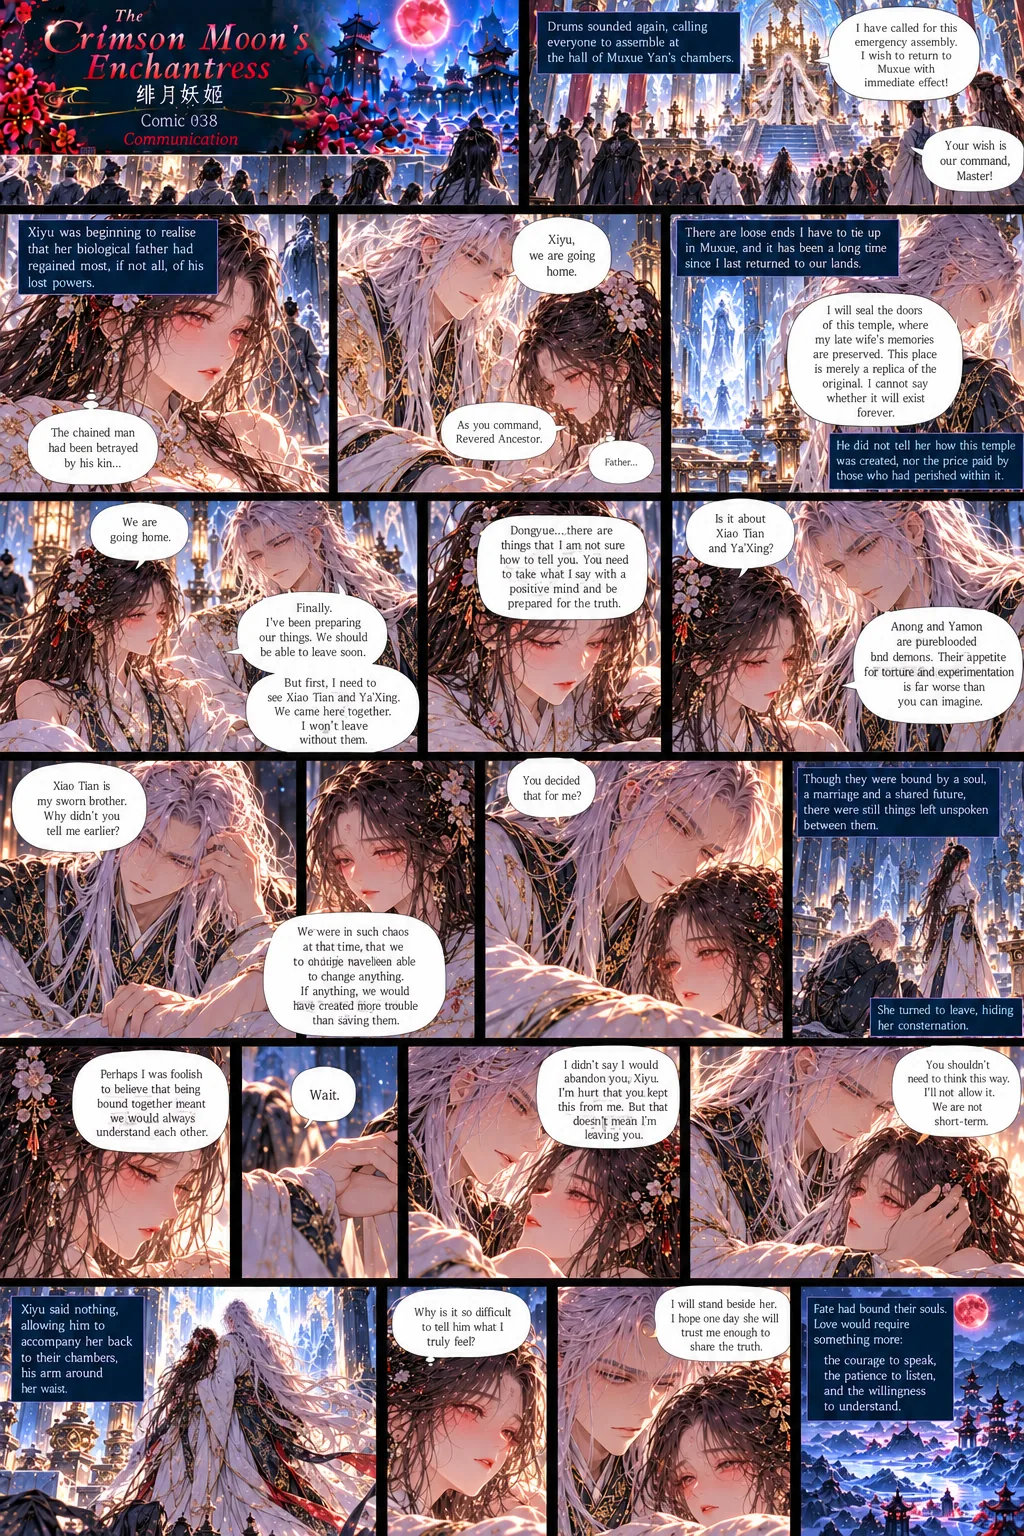
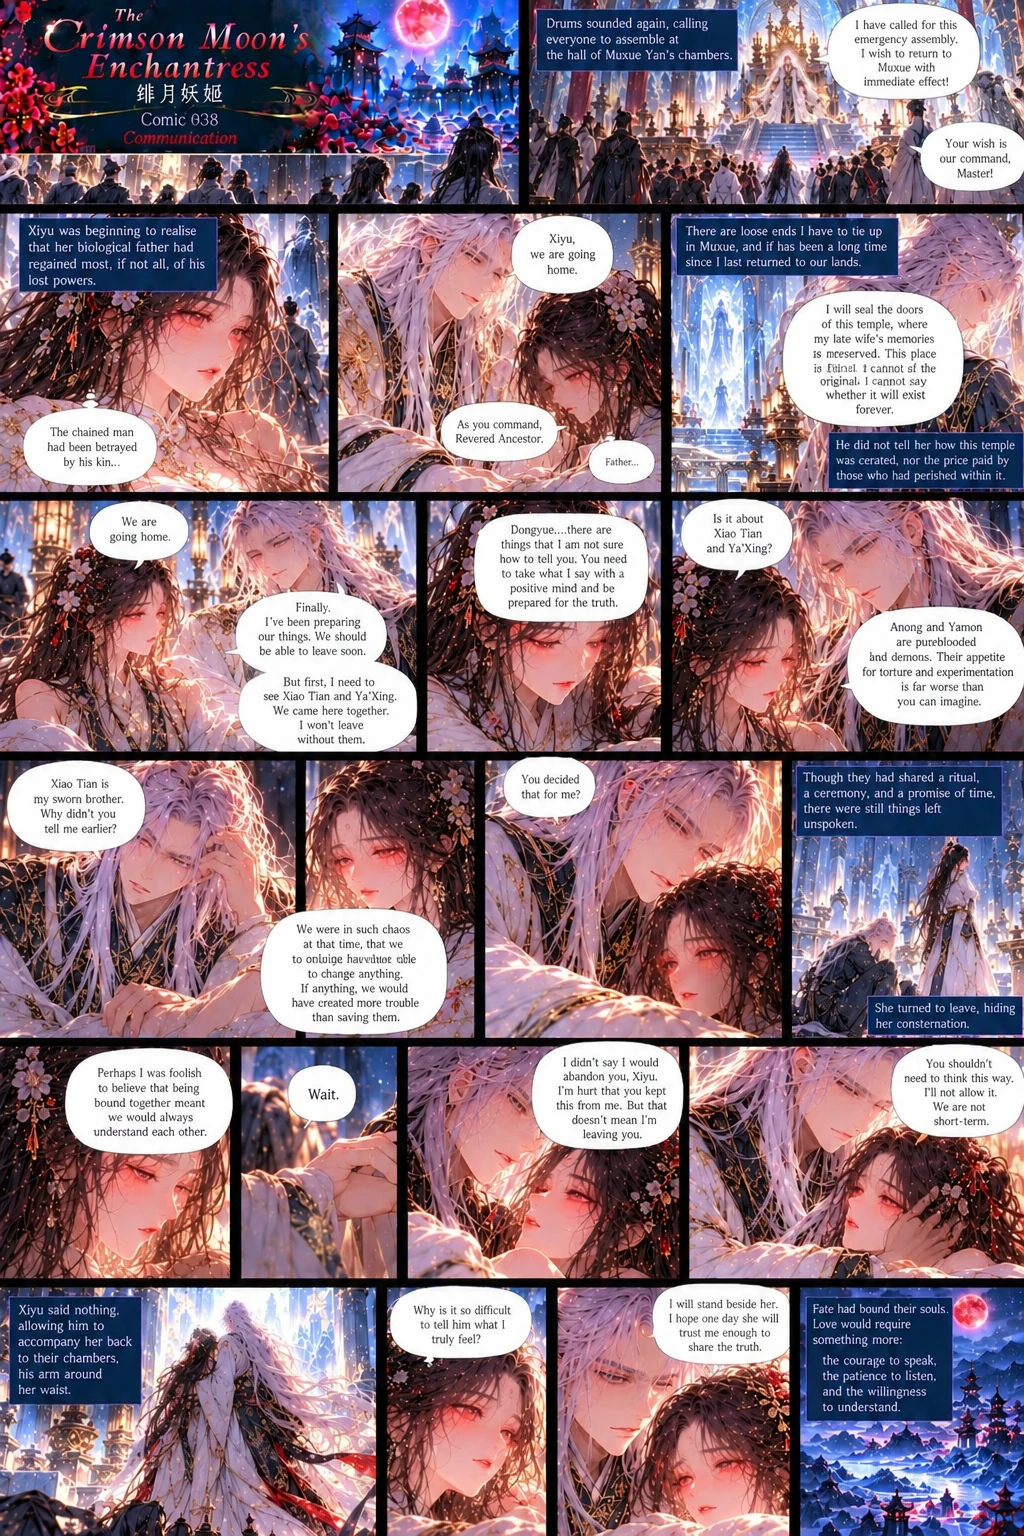
Install edited comics 038 and 039; real summaries and hooks for the incomplete union
Claude-Session: https://claude.ai/code/session_01XEYzSJa6dBuS74MycM45Hs

diff --git a/scripts/chapters.js b/scripts/chapters.js
@@ -158,11 +158,11 @@ const CHAPTER_DESIGN = {
   events:['The hidden lever and passage.','The Enchanted Bath Chamber.','"I can heal wounds. No one taught me how to care for someone\'s hair." / "Then learn."'],
   chars:['xiyu','dongyue'], intro:[], unlocks:['Temple: the hidden passage and the Enchanted Bath Chamber']},
  38:{title:'Communication', book:'—', loc:'The Ice Temple',
-  sum:'RECONSTRUCTED BRIDGE (not verbatim). Xiyu and Dongyue reflect on the trials and the truths they have not shared. Dongyue asks her not to bear every burden alone; she struggles to explain her fear of trusting someone who might leave. They agree the bond cannot replace honest communication: "Just don\'t shut me out forever." / "I will try." The trials are drawing to a close, but her questions about her father and her identity remain.',
-  events:['What remains unsaid.','A promise to speak.'],
-  chars:['xiyu','dongyue'], intro:[], unlocks:['Story: a promise to communicate']},
+  sum:'Drums call everyone to Muxue Yan\'s hall. Yan, his powers largely regained, announces he will seal the temple that preserves his late wife\'s memories and return to Muxue at once. Xiyu tells Dongyue they are going home, but first she must see Xiao Tian and Ya\'Xing. She admits that Anong and Yamon, purebloods whose appetite for torture is worse than he can imagine, were behind what happened to them. Dongyue is hurt she kept it from him: "Xiao Tian is my sworn brother. Why didn\'t you tell me earlier?" She turns to leave, hiding her dismay: "Perhaps I was foolish to believe that being bound together meant we would always understand each other." He stops her: "I\'m hurt that you kept this from me. But that doesn\'t mean I\'m leaving you." Love, the page ends, will require courage to speak, patience to listen and willingness to understand.',
+  events:['The emergency assembly.','What Xiyu kept from him.','"That doesn\'t mean I\'m leaving you."'],
+  chars:['xiyu','dongyue','yan'], intro:[], unlocks:['Story: a promise to communicate']},
  39:{title:'Return to the Island', book:'—', loc:'The Ice Temple → Muxue',
-  sum:'VOLUME 1 FINALE. Xiyu asks whether everyone is ready; they leave as soon as Muxue Yan is prepared. Yan bids farewell beside Ao Yun\'s glass casket. Dongyue regrets he could not protect their injured companions. Xiyu wonders whether Yan loves her or needs her for something. In private Dongyue says he is her husband, not a stranger, and will give her the time to believe it: "I\'ll keep choosing you, every day." At dawn some followers leave while others stay to guard Ao Yun and the temple. Xiyu, Dongyue and Xiao Tian go through the departure portal. Ya\'Xing stays at the temple to recover in Yan\'s care. Muxue lies ahead, beautiful, with ominous clouds over the mountains.',
+  sum:'VOLUME 1 FINALE. Xiyu asks whether everyone is ready; they leave as soon as Muxue Yan is prepared. Yan bids farewell beside Ao Yun\'s glass casket. Dongyue regrets he could not protect their injured companions. Xiyu wonders whether Yan loves her or needs her for something. In private Dongyue says he is her husband, not a stranger. Xiyu answers that the ritual joined their spiritual energies but not their souls, and its final stage, the everlasting union, is incomplete: "Give me time. I need to know that what we have is real." He agrees: "I\'ll keep choosing you, every day." At dawn some followers leave while others stay to guard Ao Yun and the temple. Xiyu, Dongyue and Xiao Tian go through the departure portal. Ya\'Xing stays at the temple to recover in Yan\'s care. Muxue lies ahead, beautiful, with ominous clouds over the mountains.',
   events:['Farewell to the temple and Yan.','"I\'m your husband." / "I can\'t just accept you." / "I\'ll keep choosing you."','Ya\'Xing stays to recover.','The departure portal.','A shadow over Muxue.'],
   chars:['xiyu','dongyue','xiaotian','yan'], intro:[], unlocks:['Temple: the Departure Portal','Story: end of Volume 1','Ya\'Xing stays at the Ice Temple']},
  40:{title:'The Island That No Longer Feels Like Home', book:'—', loc:'Muxue · the harbour, the sanctuary, Xiyu\'s residence',

diff --git a/scripts/hooks.js b/scripts/hooks.js
@@ -1695,6 +1695,20 @@ const HOOKS = {
 "t": "state",
 "p": false,
 "s": "hooks"
+},
+{
+"id": "ritual_joined_energies_not_souls",
+"d": "Xiyu tells Dongyue the ritual joined their spiritual energies but not their souls; the everlasting union is incomplete (author-edited page)",
+"t": "state",
+"p": false,
+"s": "author"
+},
+{
+"id": "dongyue_keeps_choosing_her",
+"d": "Dongyue agrees to give her time and keeps choosing her every day",
+"t": "state",
+"p": false,
+"s": "author"
 }
 ],
 "40": [

diff --git a/tools/build_hooks.py b/tools/build_hooks.py
@@ -52,6 +52,7 @@ ADD={
      A('xiyu_sees_yan_memory_of_infant','Yan\'s memory: she realises he is her father and she may be Muxue Yunxi, the infant frozen in time',s='art')],
  36:[A('xiao_tian_true_name_feng_xia','He is Feng Xia, not the childish Xiao Tian',s='art')],
  38:[A('anong_yamon_pureblooded_demons_revealed','Anong and Yamon are purebloods whose appetite for torture and experimentation is worse than imagined',s='art'),A('dongyue_hurt_by_withheld_truth','Dongyue is hurt that Xiyu kept the matter from him, but he is not leaving',s='art'),A('yan_decides_to_return_to_muxue','Yan calls an emergency assembly: return to Muxue at once; he will seal the temple',s='art')],
+ 39:[A('ritual_joined_energies_not_souls','Xiyu tells Dongyue the ritual joined their spiritual energies but not their souls; the everlasting union is incomplete (author-edited page)','state',s='author'),A('dongyue_keeps_choosing_her','Dongyue agrees to give her time and keeps choosing her every day','state',s='author')],
  31:[A('xiyu_knows_union_incomplete','Xiyu tells him the spell joined their energies but the union is not complete (author-edited page)','state',s='author'),A('dongyue_believes_bonded_for_life','Dongyue does not understand the bond and believes they are bonded for life (author-confirmed)','state',s='author')],
  26:[A('white_robed_group_flees_from_xiyu','White-robed priests with polar bears and white wolves flee when they recognise Xiyu'),
      A('glass_enclosure_broken','Xiyu breaks the glass enclosure with magic'),

diff --git a/docs/BOND_SYSTEM.md b/docs/BOND_SYSTEM.md
@@ -39,3 +39,6 @@ The formal deeper rite, any romance or intimacy mechanic for Cangyuan, comics sh
 
 ### Comic 033 edit (author)
 Dongyue's "You and I are bonded for life" is now "We shared the ritual. How could I ever leave you?", and the dream caption is a red thread binding their hands beneath a moonlit sky. The red thread now foreshadows Crimson Thread Resonance (Volume 2). The page still has the "naked beneath the sheets" caption and "skilful fingers explored... desire in her veins"; in-game text stays non-explicit.
+
+### Comics 038 and 039 (author edits)
+038: Xiyu says "Perhaps I was foolish to believe that being bound together meant we would always understand each other" and Dongyue answers "That doesn't mean I'm leaving you." 039: the narrator now states "The ritual had joined their spiritual energies, but not their souls. Its final stage, the everlasting union, remained incomplete," and Xiyu asks for time. This is the canon in one line. Remaining: the closing 038 caption "Fate had bound their souls" (loose, reads as poetic) and an unrevised line in the 022 script fallback text ("The bond had joined their souls").
